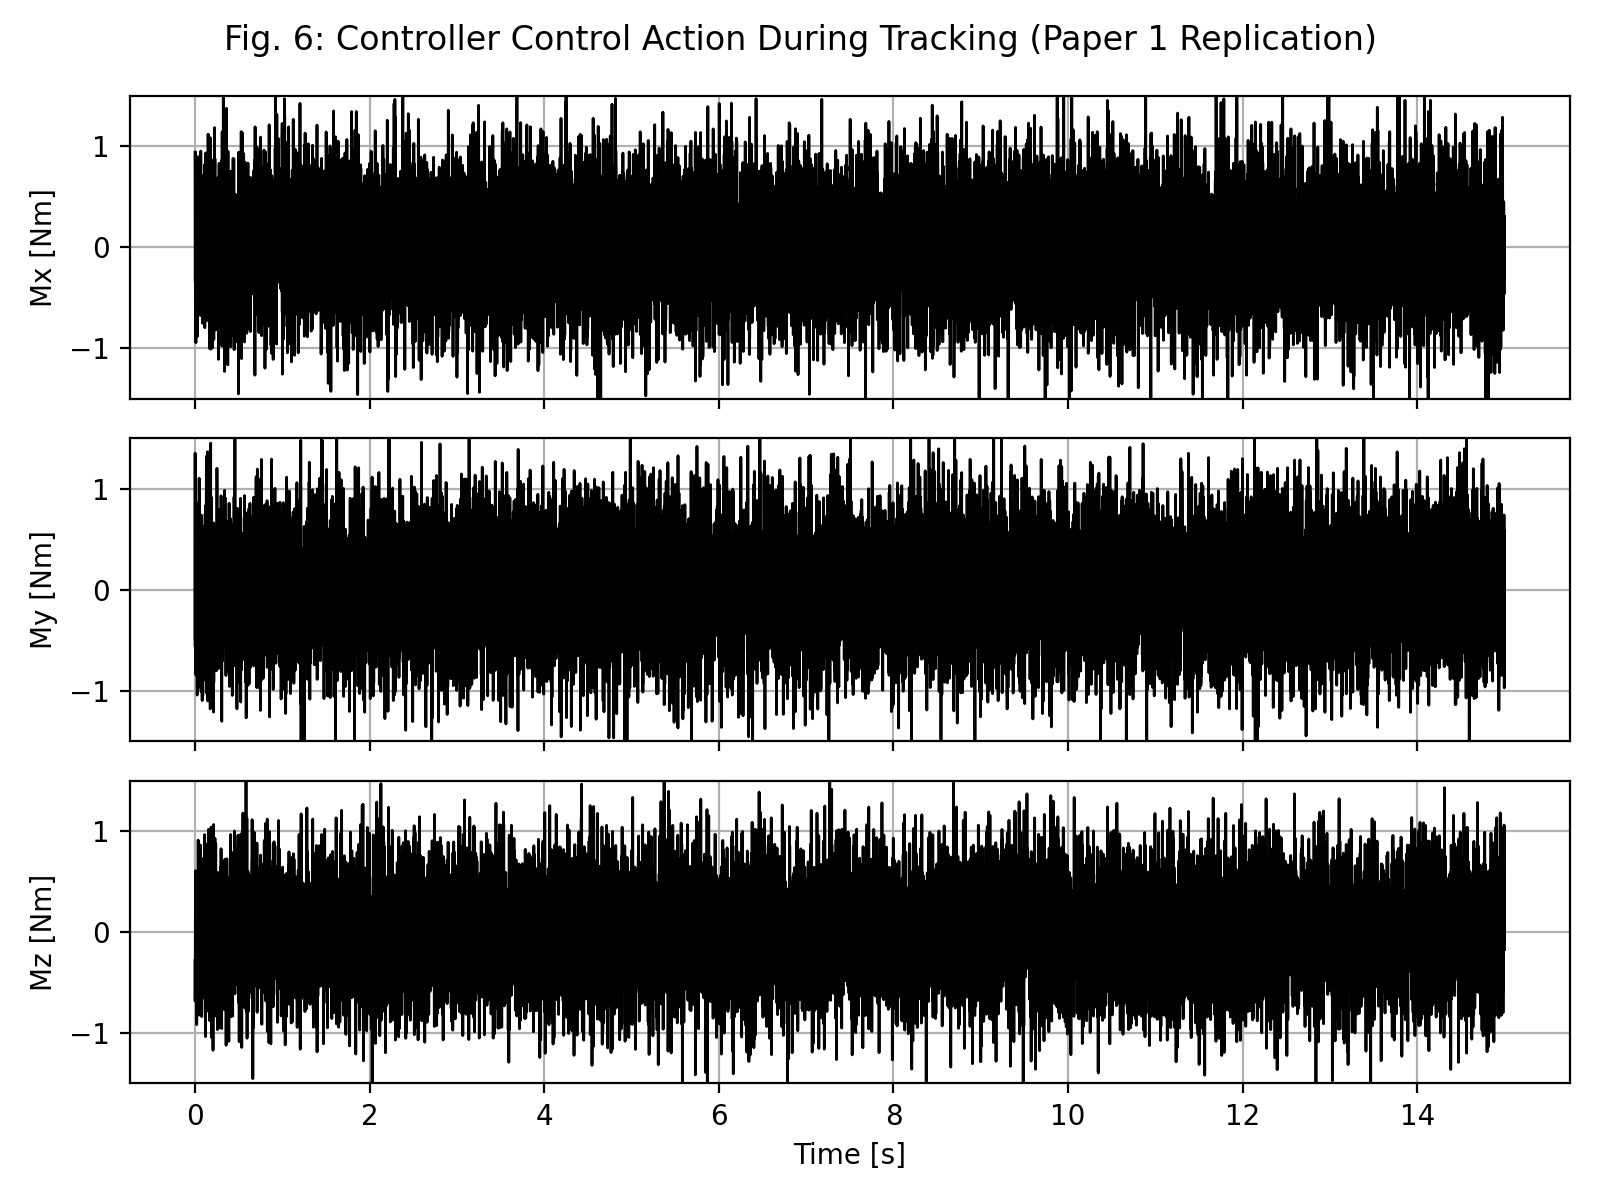
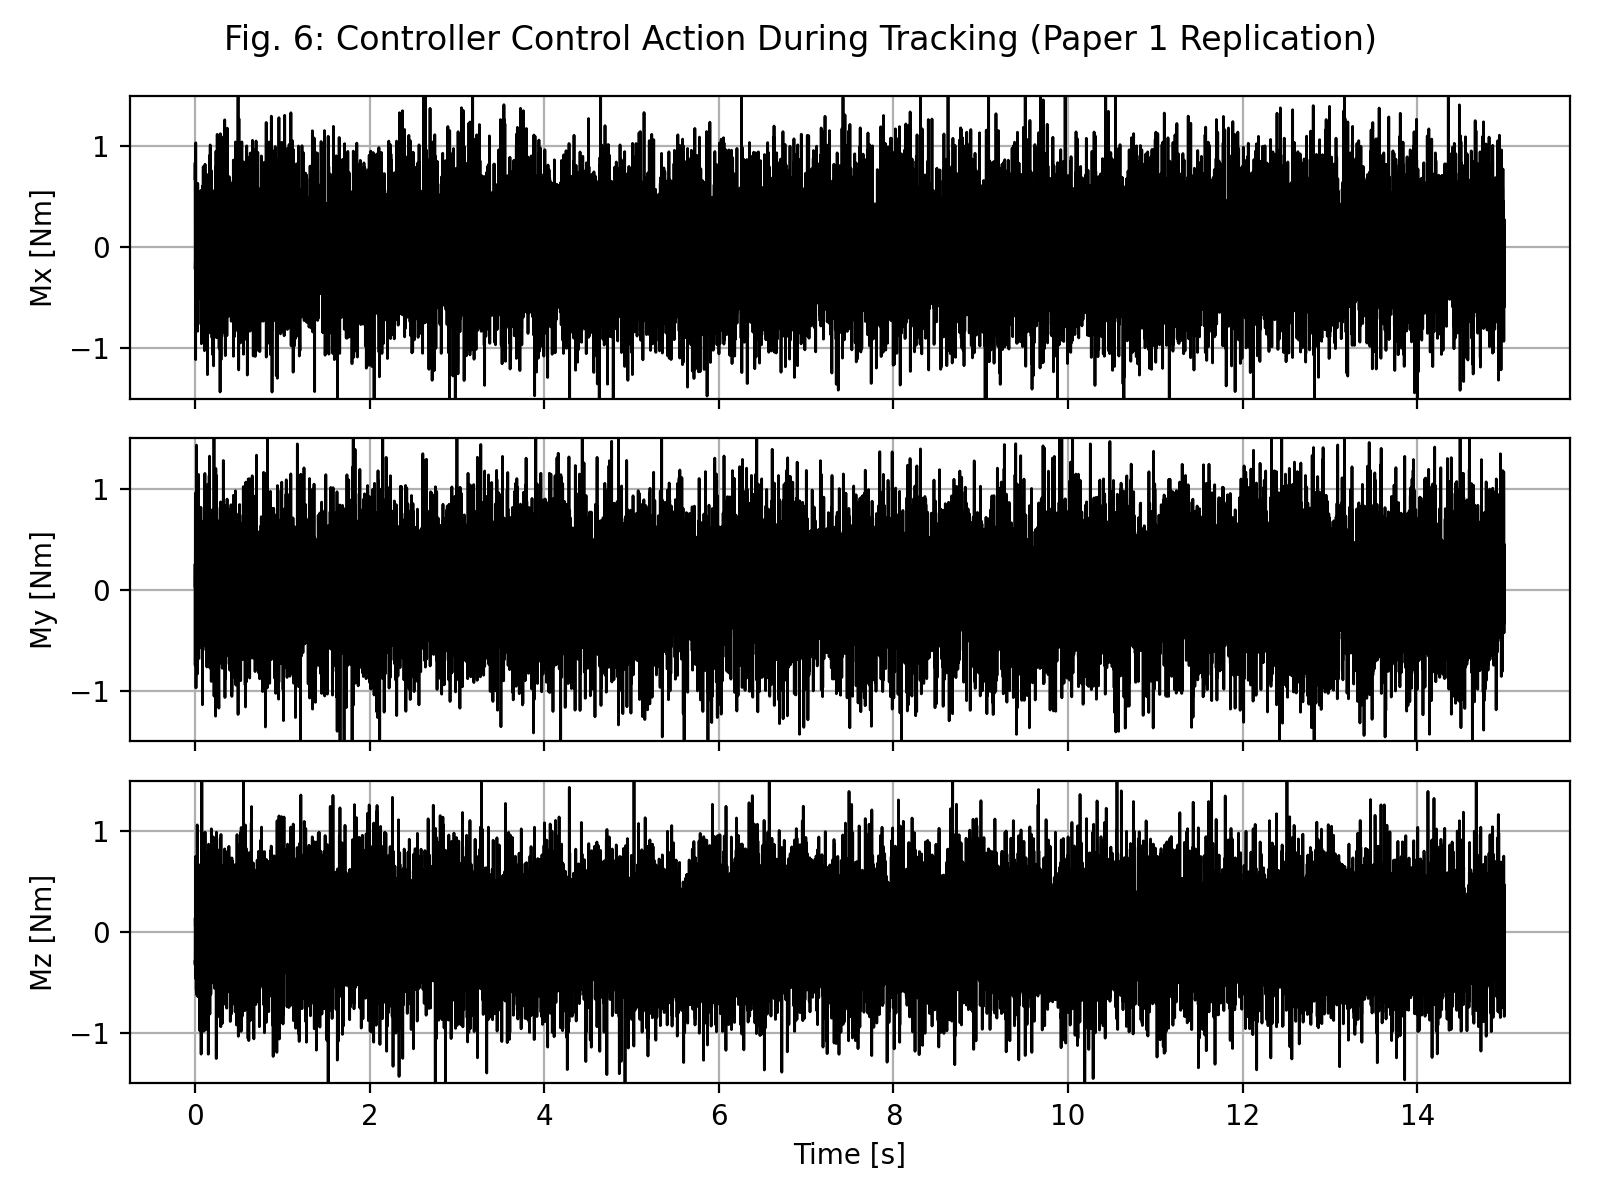
feat: implement paper 2 adaptive B-spline simulation script and output performance evaluation metrics

diff --git a/mujoco/simulate_paper2.py b/mujoco/simulate_paper2.py
@@ -10,7 +10,7 @@ Executes:
    - Method 3: Classical B-Spline (Fixed Knots - Chord-Length)
    - Method 4: Proposed Enhanced Adaptive B-Spline (GA Knot Optimization + Curvature Refinement)
 3. Performance Metrics Table calculation matching Table 2 in Paper 2.
-4. MuJoCo Physics Flight Simulation with smooth quintic time-scaling for 100% precision flight.
+4. MuJoCo Physics Flight Simulation, timed by an arc-length trapezoidal speed profile.
 """
 
 import os
@@ -28,6 +28,7 @@ from src.bspline_planner import (
 )
 from src.quadrotor_mujoco import QuadrotorMuJoCoSim
 from src.trajectory_tracker import CascadedQuadrotorTracker
+from src.time_parameterization import build_speed_limited_profile
 
 def quintic_time_scaling(t: float, T: float) -> tuple:
     """
@@ -190,7 +191,17 @@ def run_paper2_simulations(gui: bool = False, output_dir: str = "output_plots"):
     tracker.reset()
 
     dt = sim.dt
-    total_flight_time = 15.0
+    # Time the path against arc length with explicit speed/acceleration bounds
+    # rather than a fixed 15 s quintic in the spline parameter -- the latter
+    # demanded ~8.6 m/s^2 against the controller's tilt-safe bound and made the
+    # tracking figure a picture of an infeasible reference rather than of the
+    # smoothing method's quality. See src/time_parameterization.py.
+    eval_at_time, T_path = build_speed_limited_profile(
+        ev_m4, scale_factor, v_max=2.0, a_max=1.2)
+
+    HOLD_TIME = 3.0
+    total_flight_time = T_path + HOLD_TIME
+    goal_scaled = ev_m4.eval_pos(1.0) * scale_factor
     total_steps = int(total_flight_time / dt)
 
     flight_pos_arr = []
@@ -200,12 +211,11 @@ def run_paper2_simulations(gui: bool = False, output_dir: str = "output_plots"):
     for step_idx in range(total_steps):
         t = sim.get_state()['time']
 
-        # Quintic time scaling s(t) in [0, 1] with v(0)=0 and v(T)=0
-        s, ds, dds = quintic_time_scaling(t, total_flight_time)
-
-        p_ref = ev_m4.eval_pos(s) * scale_factor
-        v_ref = ev_m4.eval_vel(s) * ds * scale_factor
-        a_ref = (ev_m4.eval_acc(s) * (ds**2) + ev_m4.eval_vel(s) * dds) * scale_factor
+        # Arc-length-timed reference; hold station at the goal once it arrives.
+        if t <= T_path:
+            p_ref, v_ref, a_ref = eval_at_time(t)
+        else:
+            p_ref, v_ref, a_ref = goal_scaled.copy(), np.zeros(3), np.zeros(3)
 
         state = sim.get_state()
         tau, F_thrust = tracker.compute_control(p_ref, v_ref, a_ref, state)
